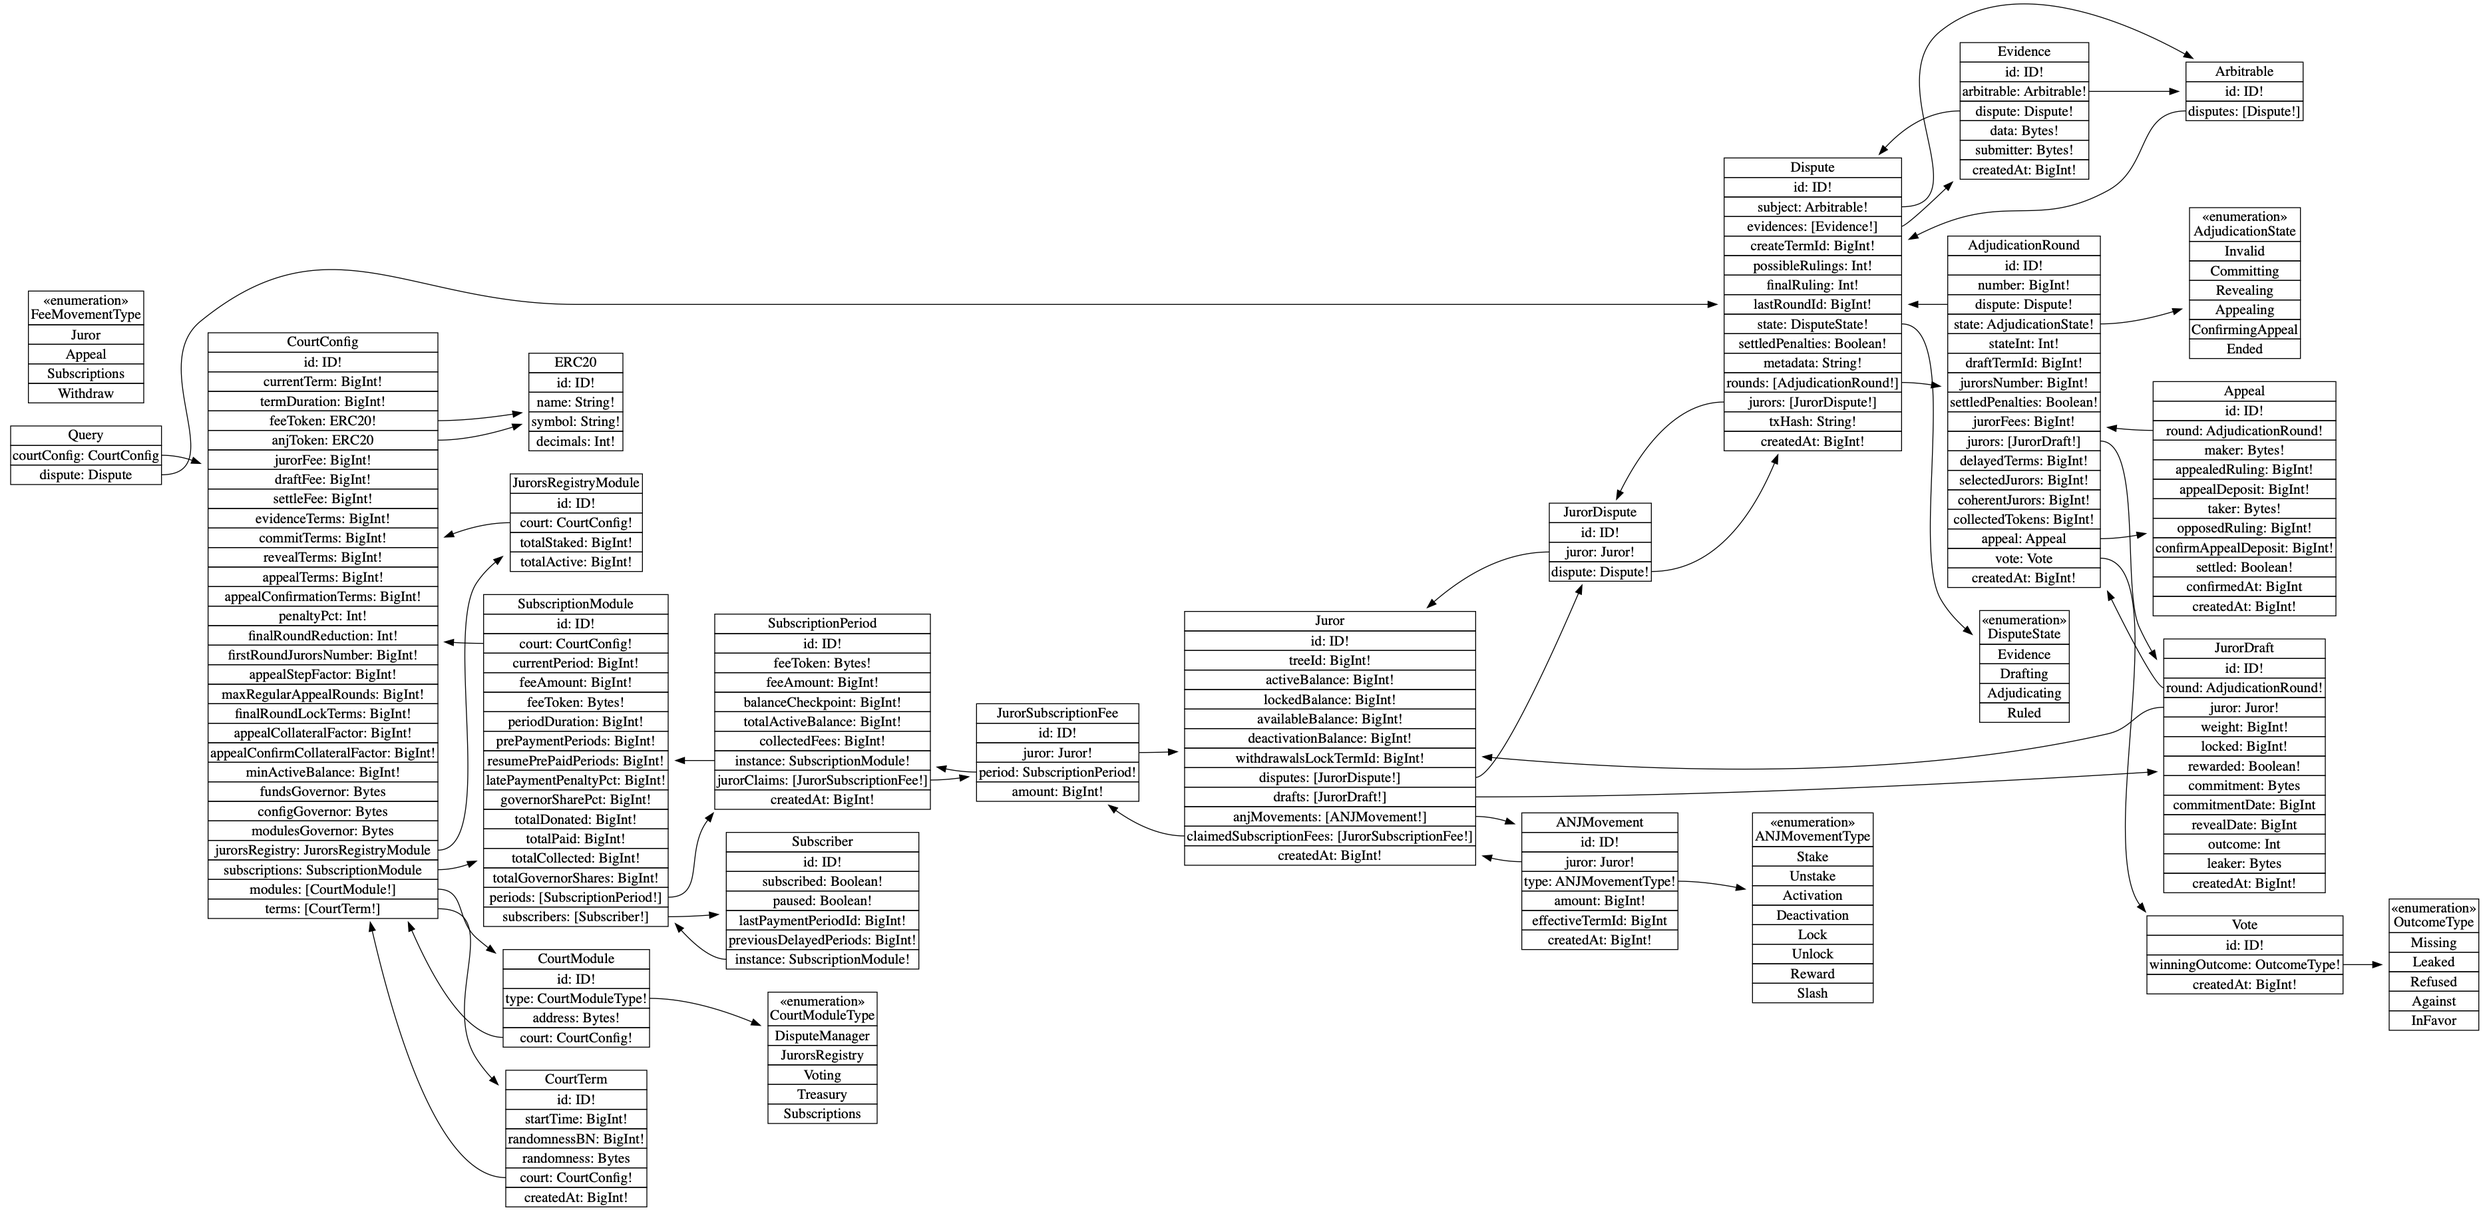
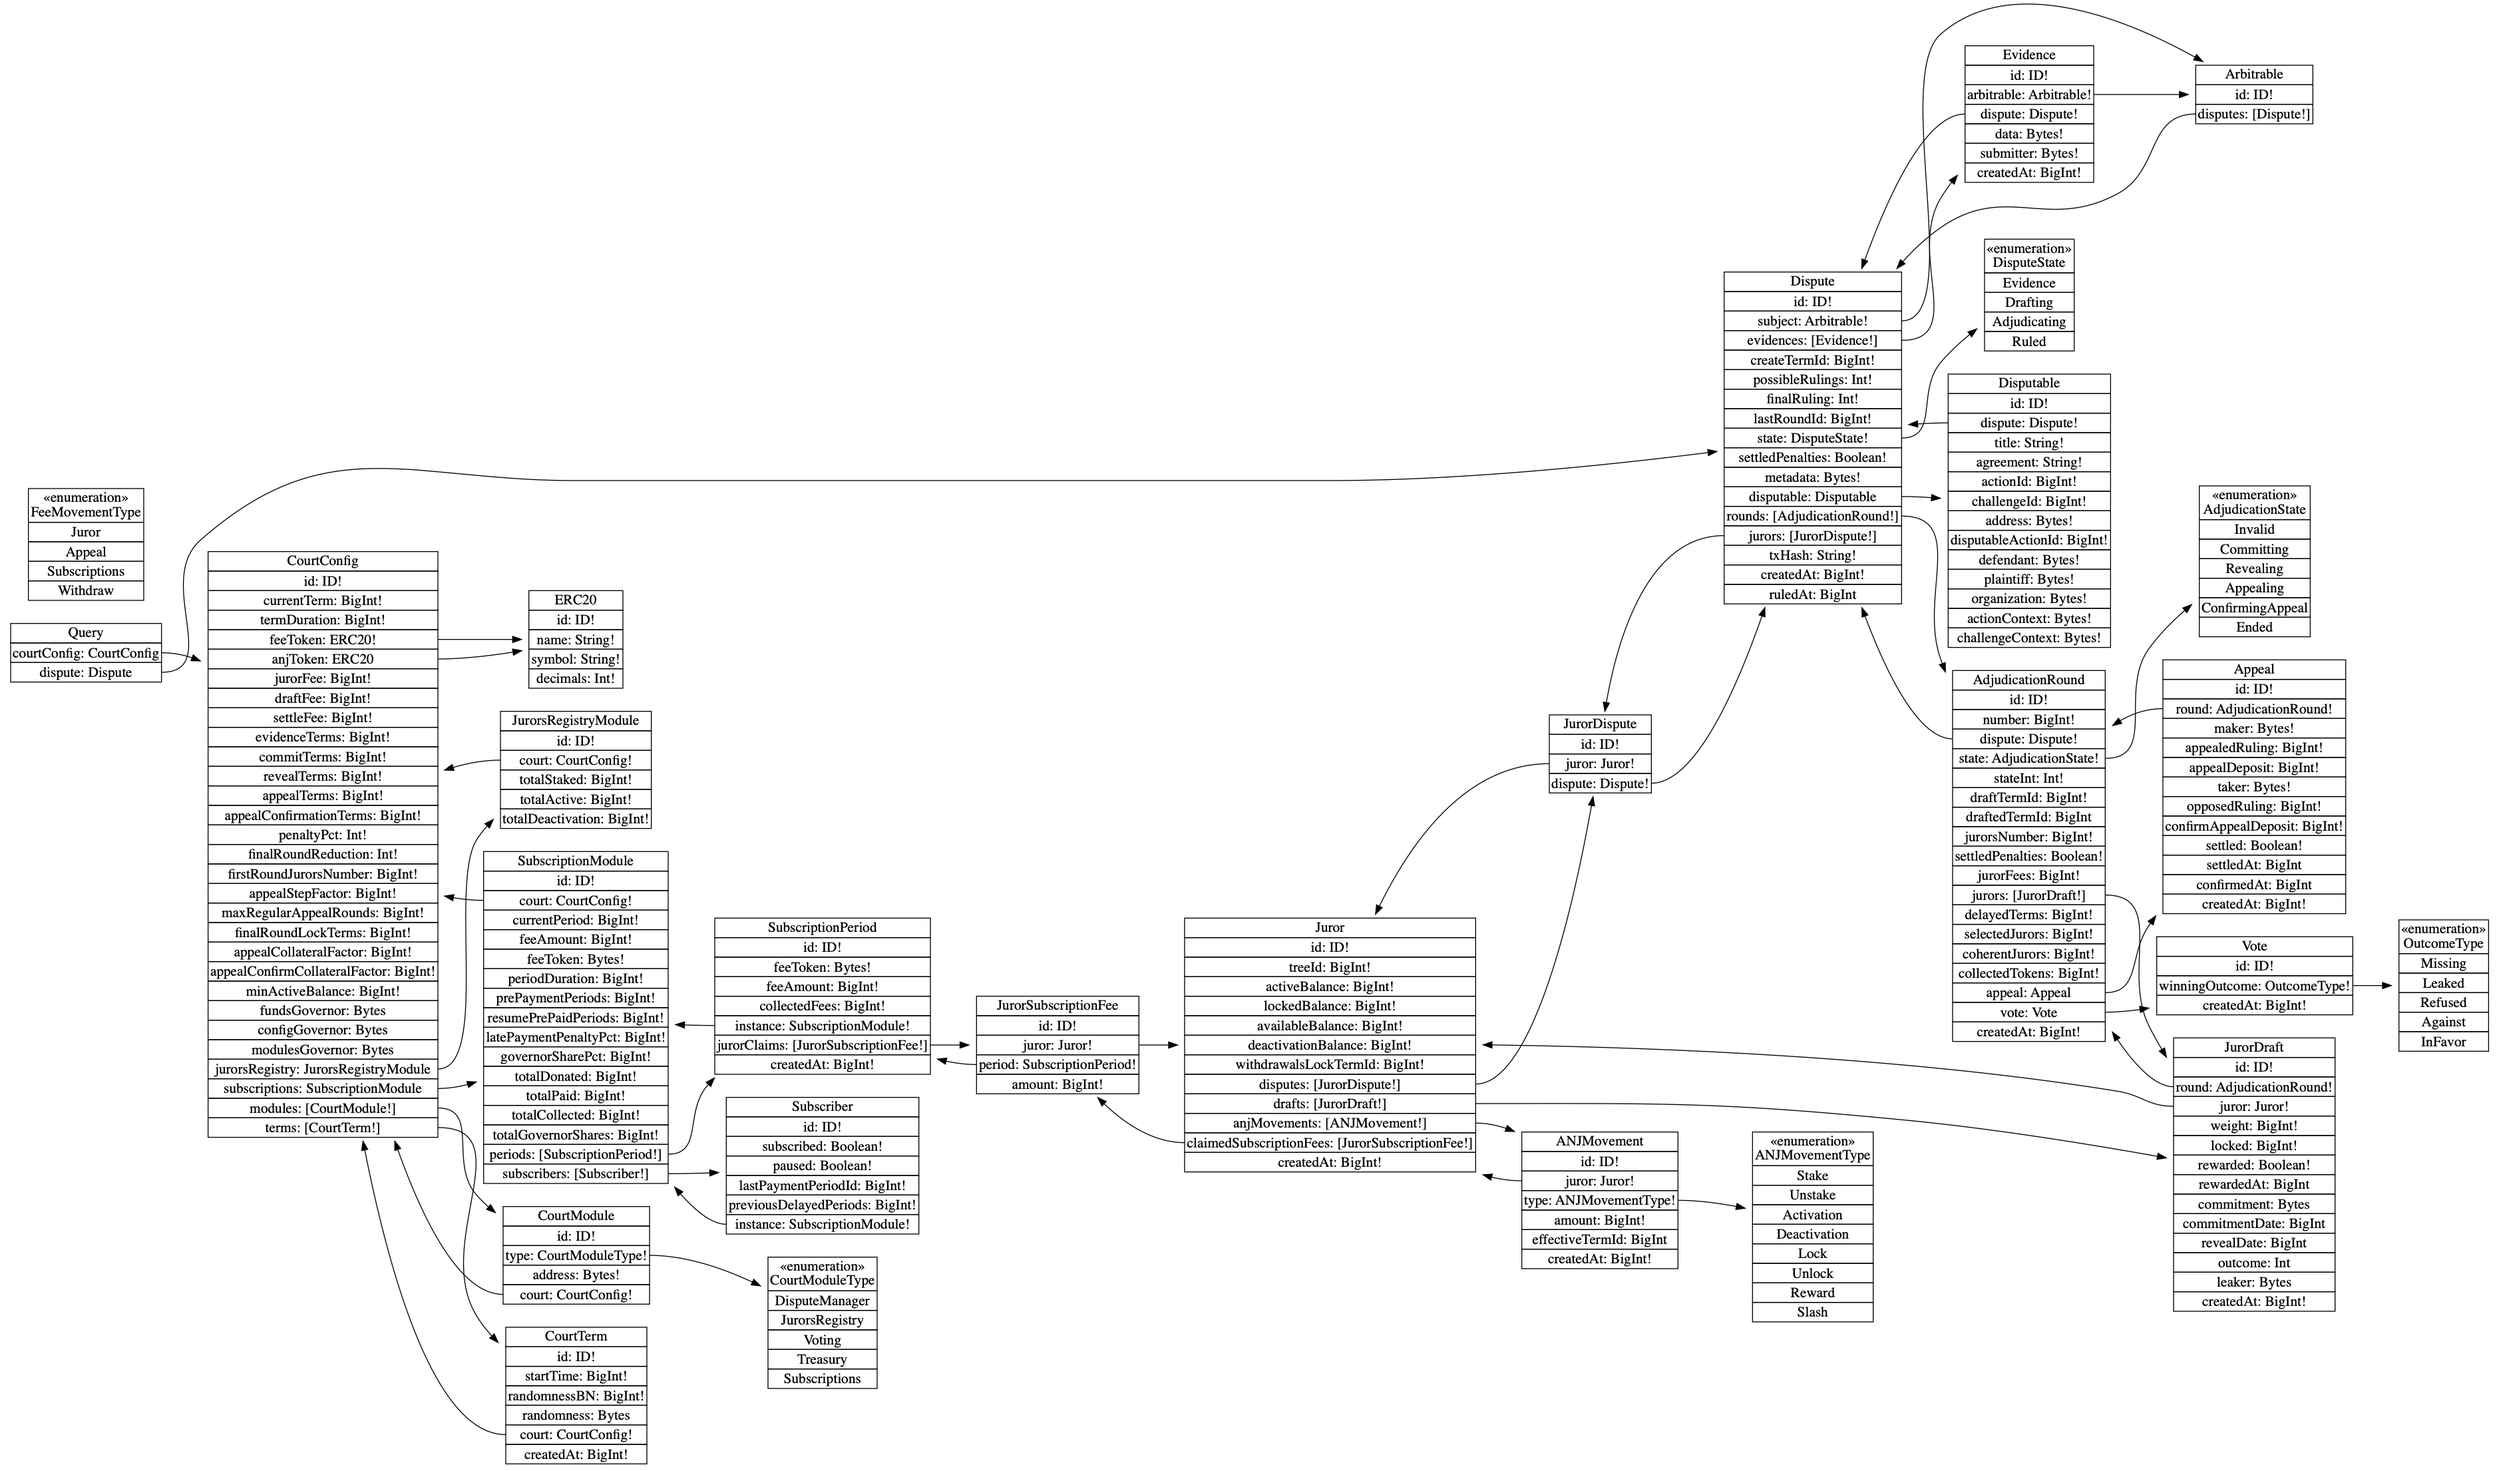
Disputable: Add both action and challenge contexts (#72)

Changed region(s): [[0.0, 0.25, 0.7444, 1.0], [0.6824, 0.0312, 1.0, 0.9062], [0.6203, 0.4062, 0.6824, 0.5625]]

diff --git a/helpers/disputable.ts b/helpers/disputable.ts
@@ -37,6 +37,8 @@ export function tryDecodingAgreementMetadata(dispute: Dispute): void {
   disputable.actionId = actionId
   disputable.challengeId = challengeId
   disputable.address = actionData.value.value0
+  disputable.actionContext = actionData.value.value6
+  disputable.challengeContext = challengeData.value.value3
   disputable.disputableActionId = actionData.value.value1
   disputable.defendant = actionData.value.value4
   disputable.plaintiff = challengeData.value.value1
